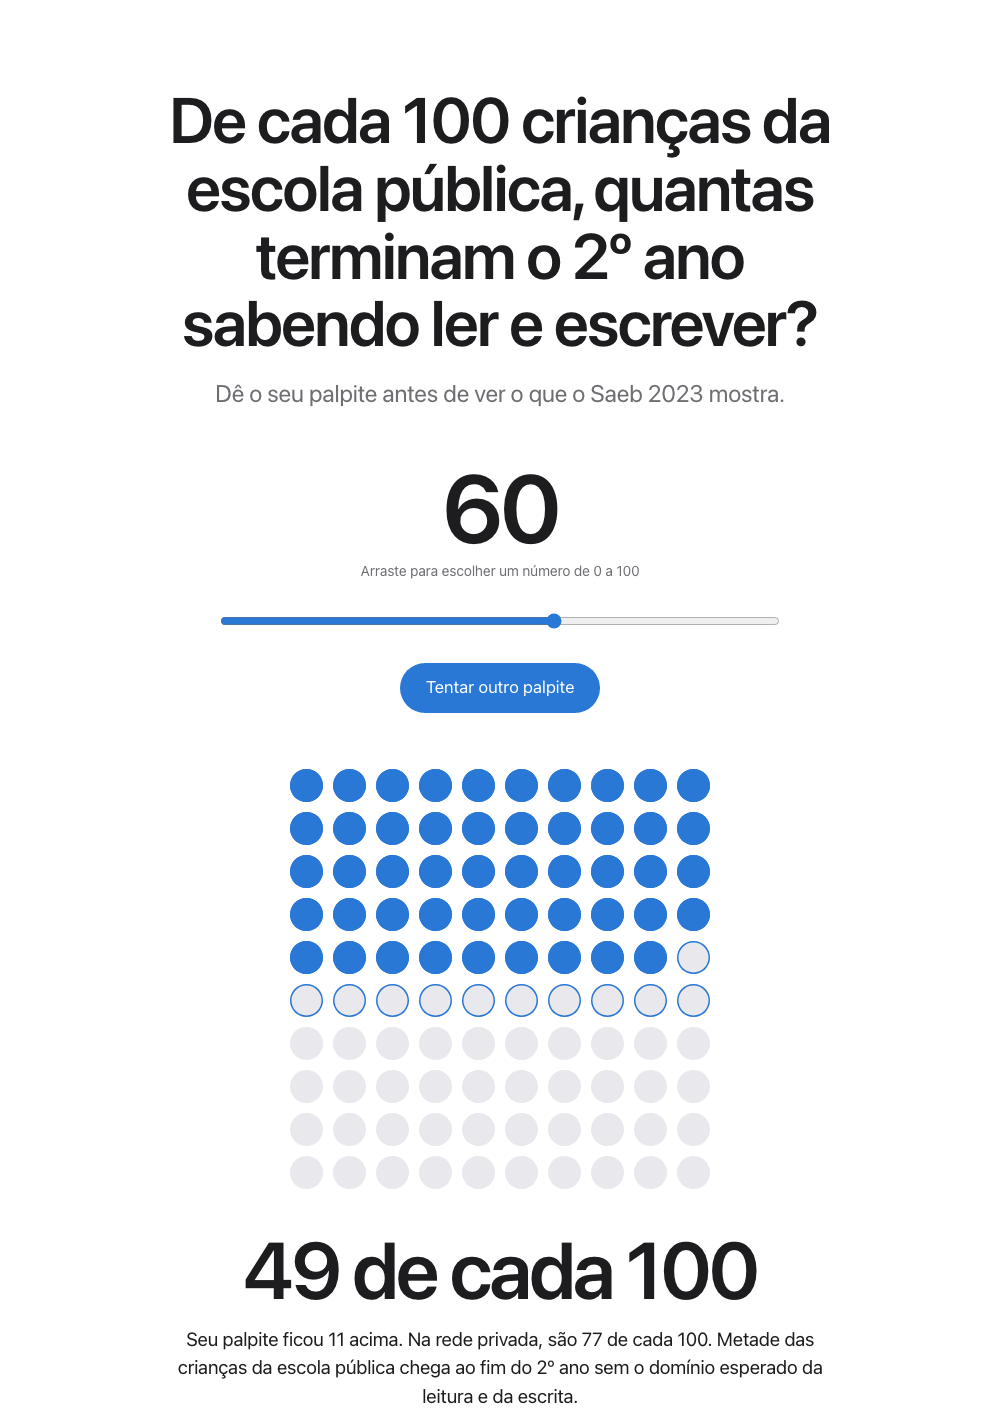
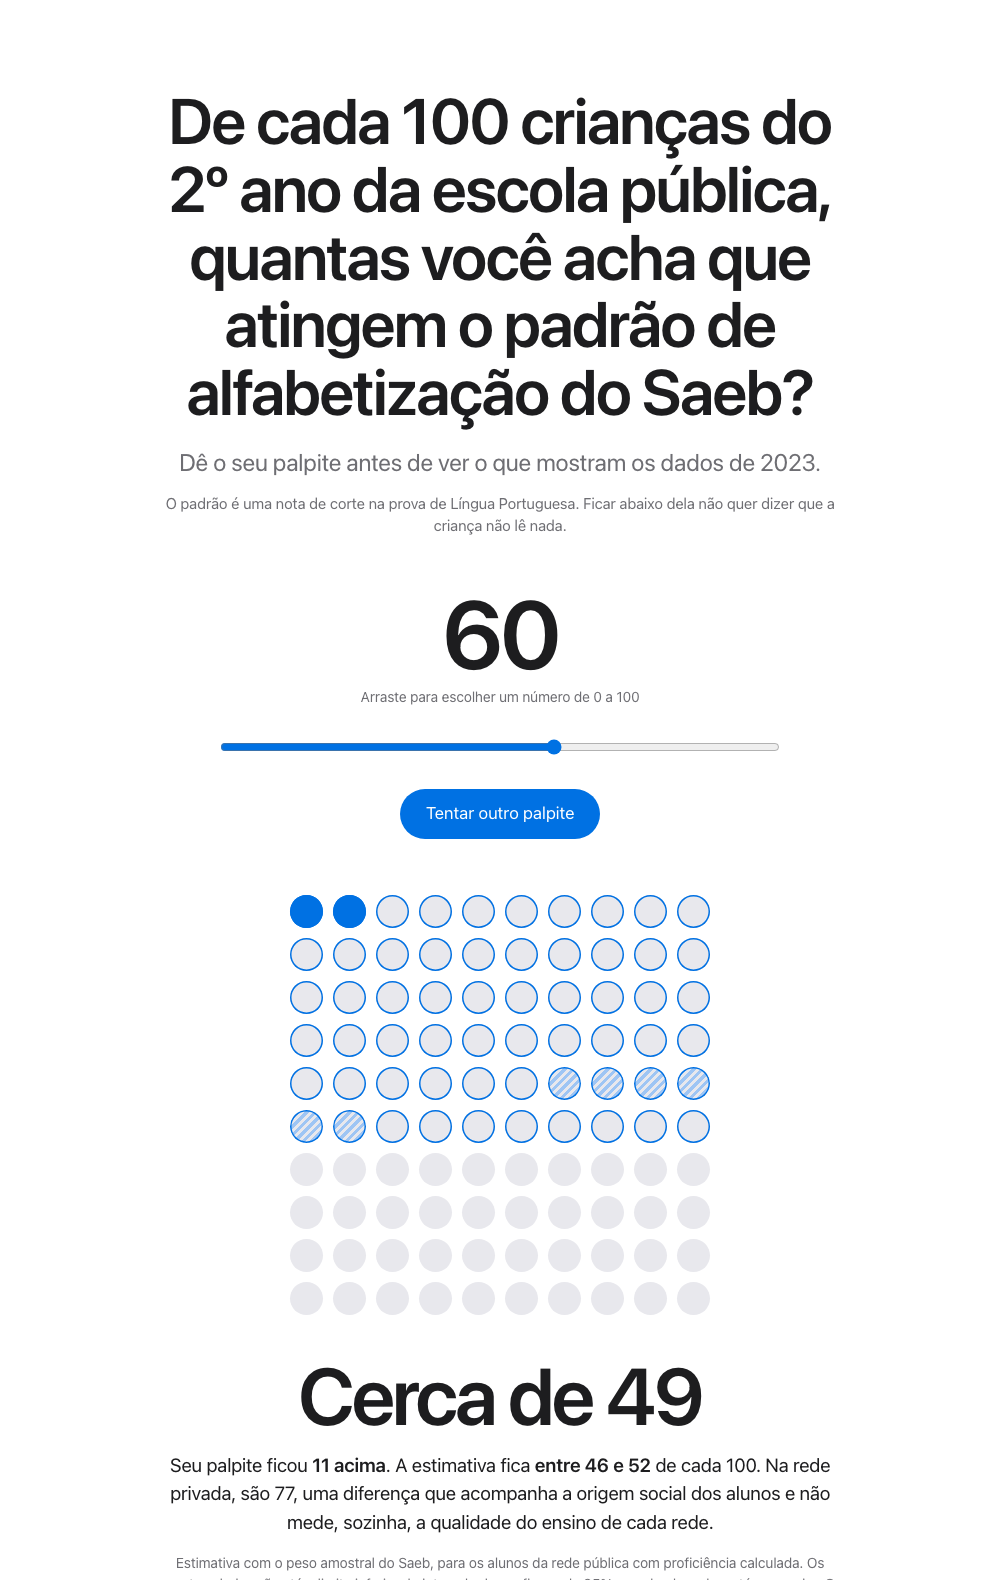
docs(resultados): atualiza a abertura do painel com o padrão do Saeb e o intervalo de confiança

Changed region(s): [[0.155, 0.062, 0.837, 0.7437], [0.186, 0.8676, 0.837, 1.0]]

diff --git a/monografia/capitulos/resultados.tex b/monografia/capitulos/resultados.tex
@@ -327,9 +327,11 @@ O público principal são pesquisadores, estudantes e jornalistas de
 educação, e os gestores vêm em segundo lugar. Por isso o painel é uma
 narrativa curta, com um achado por tela, e cada gráfico traz a tabela dos
 números e a explicação do método. A abertura pede ao leitor um palpite
-sobre quantas crianças de cada 100 se alfabetizam na rede pública e só
-então revela a estimativa com peso amostral, de 49 em cada 100
-(Figura~\ref{fig:painel-abertura}). As telas seguintes tratam do lugar,
+sobre quantas crianças de cada 100 da rede pública atingem o padrão de
+alfabetização do Saeb e só então revela a estimativa com peso amostral,
+de cerca de 49, com intervalo de confiança de 46 a 52
+(Figura~\ref{fig:painel-abertura}). Uma tela explica o padrão de 743
+pontos, e outra avisa que, dali em diante, a unidade é a escola. As telas seguintes tratam do lugar,
 do nível socioeconômico, do pouco que os questionários acrescentam, dos
 limites da previsão e dos temas de maior peso, e o leitor termina
 explorando a própria unidade da federação e baixando os dados. Cada
@@ -343,8 +345,9 @@ oficiais.
     \includegraphics[width=0.7\textwidth]{figuras/painel_abertura.png}
     \begin{flushleft}
     {\footnotesize Fonte: elaborada pelo autor, com base nos microdados do
-    Saeb 2023 (Inep). Os pontos cheios são a estimativa, e os contornados
-    vão até o palpite.}
+    Saeb 2023 (Inep). Os pontos cheios vão até o limite inferior do
+    intervalo de confiança, os hachurados, até o superior, e os contornados,
+    até o palpite.}
     \end{flushleft}
     \label{fig:painel-abertura}
 \end{figure}
